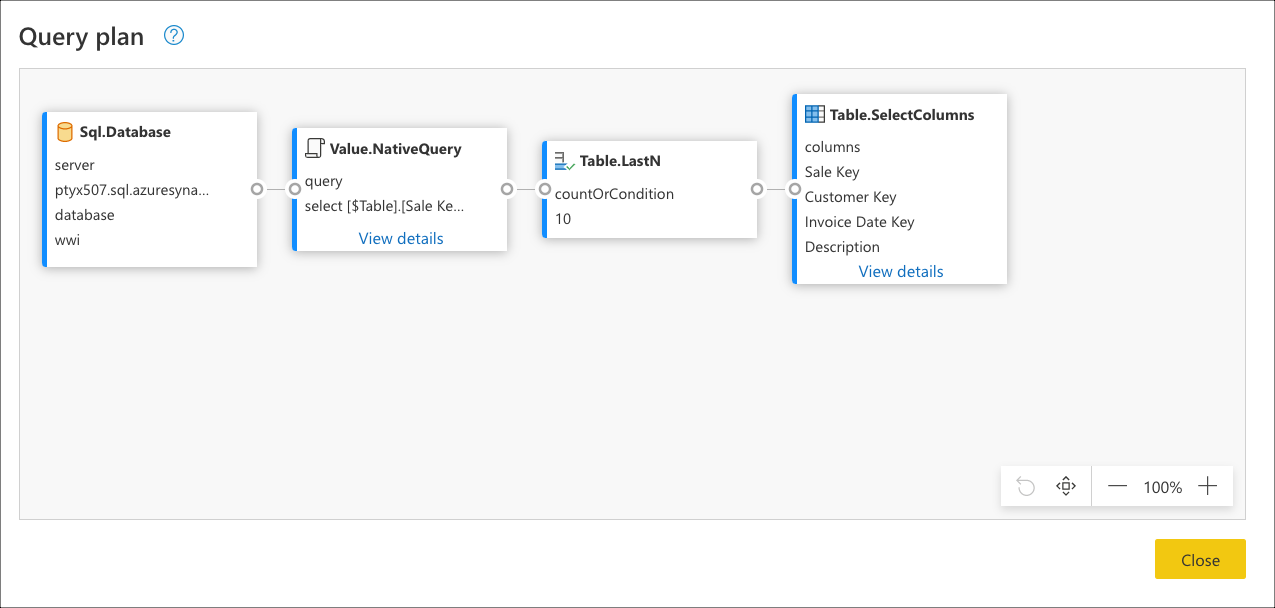
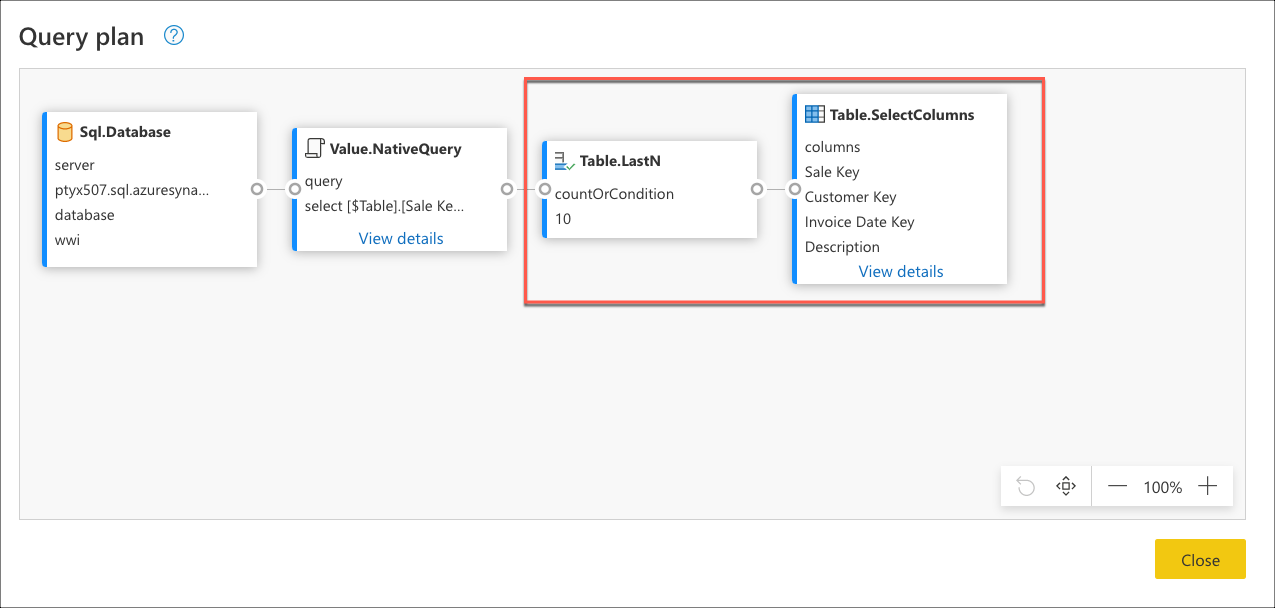
images

Changed region(s): [[0.3976, 0.125, 0.8259, 0.5312]]

diff --git a/powerquery-docs/query-folding-basics.md b/powerquery-docs/query-folding-basics.md
@@ -127,11 +127,11 @@ This article provides some example scenarios for each of the possible outcomes f
 
 Imagine a scenario where, using the [Wide World Importers database for Azure Synapse Analytics SQL database](https://docs.microsoft.com/azure/synapse-analytics/sql-data-warehouse/load-data-wideworldimportersdw), you are tasked with creating a query in Power Query that connects to the **fact_Sale** table and retrieves the last ten sales with only the following fields:
 
-* *Sales Key* 
-* *Customer Key*
-* *Invoice Date Key*
-* *Description*
-* *Quantity*
+* Sales Key
+* Customer Key
+* Invoice Date Key
+* Description
+* Quantity
 
 >[!NOTE]
 >For demonstration purposes, this article uses the database outlined on the tutorial on loading the Wide World Importers database into Azure Synapse Analytics with the main difference being the fact_Sales table only holding data for the year 2000 and with a total of 3644356 rows.
@@ -188,9 +188,9 @@ Checking the applied steps pane, you notice that the step folding indicators are
 
 You can right click the last step of your query, the one named *Kept bottom rows*, and select the option that reads **Query plan**.
 
-![Query plan for the query created showing multiple nodes, two of which are within a rectangle and these two nodes represent the Kept bottom rows and Remove other columns transforms](media/query-folding-basics/no-folding-query-plan.png)
+![Query plan for the query created showing multiple nodes, two of which are within a rectangle and these two nodes represent the Kept bottom rows and Choose](media/query-folding-basics/no-folding-query-plan.png)
 
-Each card in the previous image is called a node and it represents every process that needs to happen (from left to right) in order for your query to be evaluated. Some of those nodes can be evaluated at your data source while others, like the two nodes within the rectangle of the previous image, will be evaluated using the Power Query engine. These two nodes represent the two transforms that you added, *Kept bottom rows* and *Remove other columns*, whilst the rest of the node represent operations that will happen at your data source level.
+Each card in the previous image is called a node and it represents every process that needs to happen (from left to right) in order for your query to be evaluated. Some of these nodes can be evaluated at your data source while others like the nodes for Table.LastN and Table.SelectColumns, within the rectangle of the previous image, will be evaluated using the Power Query engine. These two nodes represent the two transforms that you added, *Kept bottom rows* and *Choose columns*, whilst the rest of the node represent operations that will happen at your data source level.
 
 You can also see exactly the query that would be sent to your data source by clicking the *view details* hyperlink in the Value.NativeQuery node. 
 
